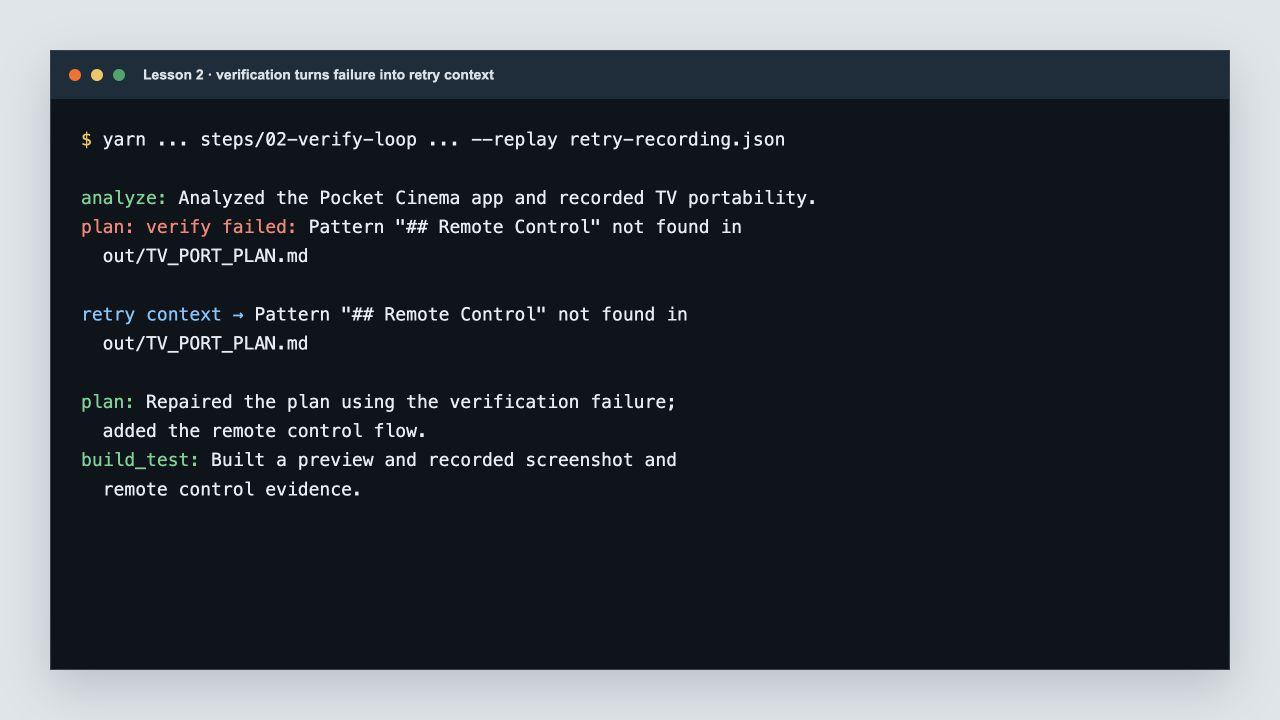
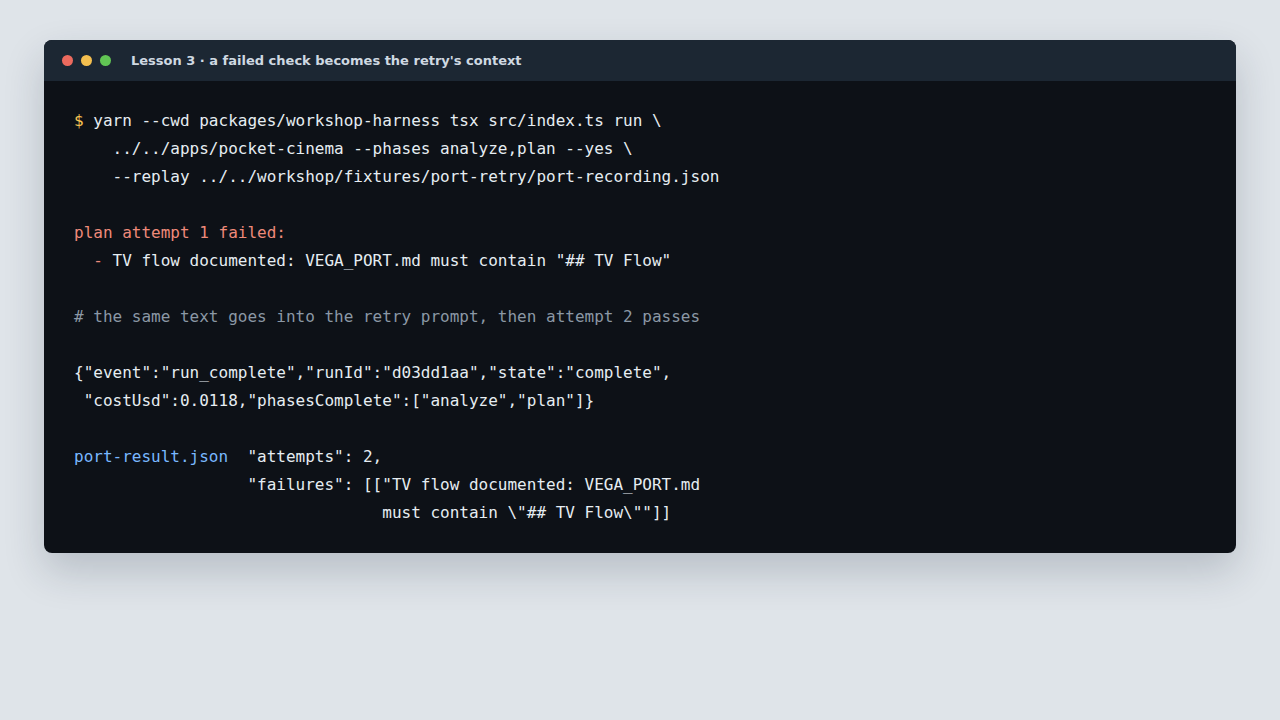
harness: show the failed check, and record a retry the real pipeline can replay
A retry that happens silently is a retry nobody can audit. The pipeline
now prints the failing checks to stderr as they happen — stdout stays
JSON-only — and port-result.json keeps them per phase, so the evidence
outlives the terminal.

workshop/fixtures/port-retry/ is the recording that makes the retry
deterministic: its first plan turn writes a VEGA_PORT.md with the
remote-flow section missing, so the check fails, the exact failure goes
back into the prompt, and the second turn repairs it. The ADBT context
and feasibility recordings sit beside it, where the harness looks.

workshop/assets/retry-terminal.png is regenerated from that real run.
scripts/render-terminal.mjs renders it from a committed spec beside the
PNG, so the site's terminal illustrations stop being hand-captured.

Changed region(s): [[0.0312, 0.0306, 0.9688, 0.9472]]

diff --git a/packages/workshop-harness/src/port-pipeline.ts b/packages/workshop-harness/src/port-pipeline.ts
@@ -15,7 +15,8 @@ import { FOCUS_TEST_CHECK, verifyPort, type PortCheck } from "./port-verificatio
  */
 export type PortPhase = { name: string; goal: string; instruction: string; skills: string[]; checks: PortCheck[] };
 export type PortResult = {
-  phases: { name: string; summary: string; attempts: number; checks: string[] }[];
+  /** failures holds the checks that failed on each earlier attempt, oldest first. */
+  phases: { name: string; summary: string; attempts: number; checks: string[]; failures: string[][] }[];
   costUsd: number;
   adbt?: { mode: "live" | "replay"; documents: string[]; evidence: string };
 };
@@ -42,6 +43,7 @@ export async function runPortPipeline(options: { appDir: string; outDir: string;
       const start = gitHead(options.appDir);
       let failures: string[] = [];
       let previousFailures = "";
+      const rejected: string[][] = [];
       try {
         for (let attempt = 1; attempt <= maxAttempts; attempt++) {
           if (attempt > 1) reset(options.appDir, start);
@@ -63,9 +65,13 @@ export async function runPortPipeline(options: { appDir: string; outDir: string;
           failures = verifyPort(options.appDir, phase.checks);
           if (failures.length === 0) {
             commit(options.appDir, `workshop(${phase.name}): ${output.summary.slice(0, 60)}`);
-            result.phases.push({ name: phase.name, summary: output.summary, attempts: attempt, checks: phase.checks.map((check) => check.label) });
+            result.phases.push({ name: phase.name, summary: output.summary, attempts: attempt, checks: phase.checks.map((check) => check.label), failures: rejected });
             break;
           }
+          rejected.push(failures);
+          // A retry that happens silently is a retry nobody can audit. stdout stays JSON-only,
+          // so this goes to stderr — and it is the exact text the next prompt carries.
+          process.stderr.write(`${phase.name} attempt ${attempt} failed:\n${failures.map((failure) => `  - ${failure}`).join("\n")}\n`);
           const signature = failures.join("; ");
           if (attempt === maxAttempts) throw new Error(`${phase.name} failed after ${attempt} attempt${attempt === 1 ? "" : "s"}: ${signature}`);
           if (signature === previousFailures) throw new Error(`${phase.name} stopped after ${attempt} attempts: no progress, the same failures repeated: ${signature}`);
